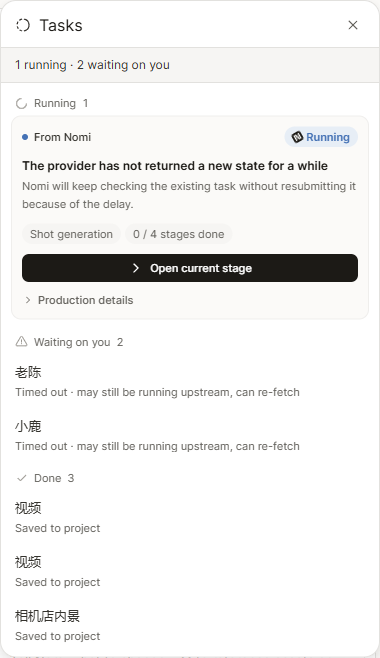
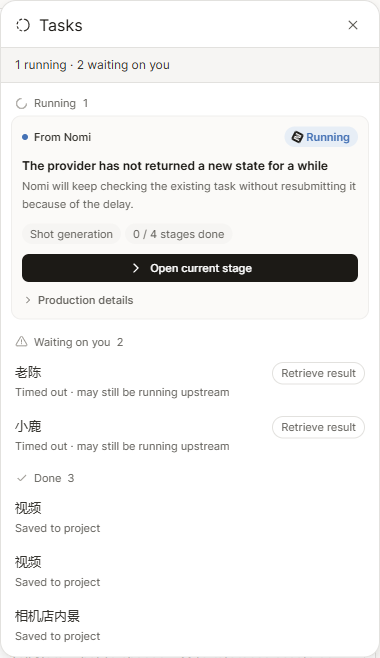
fix(tasks): 「等你处理」的等待超时行直接摆出「重新拉取」
评审指出：分组叫「等你处理」，行上却看不到在等的那个动作——等待超时的行 action 为空，
只能点进画布找节点上的按钮。

- 行动作新增 recover_generation：与节点按钮同一条 recoverNodeResult（查询、不铸付费令牌），
  项目身份在点击时签发；按钮文案复用 generationCommon.recoverable.recover
- 行副标题去掉与按钮重复的「可重新拉取」（en 版不再被截断）
- 走查断言按钮在静止面板里可见；zh/en 改后截图重拍

Changed region(s): [[0.6079, 0.6383, 0.9553, 0.6991], [0.6079, 0.5471, 0.9553, 0.6079], [0.7526, 0.1824, 0.8105, 0.2128]]

diff --git a/src/workbench/taskCenter/TaskCenterPanel.tsx b/src/workbench/taskCenter/TaskCenterPanel.tsx
@@ -15,6 +15,9 @@ import { useGenerationQueueStore } from '../generationCanvas/runner/generationQu
 import { requestTaskCancel } from '../generationCanvas/runner/localTaskControl'
 // 重试复用既有链路（单发 confirmAndRunNode / 批量 confirmAndRunPlan），不另起一套付费路径。
 import { confirmAndRunNode } from '../generationCanvas/runner/generationRunController'
+// 重新拉取与节点上那颗按钮同一条路（查询，不花钱），项目身份在点击这一刻签发。
+import { recoverNodeResult } from '../generationCanvas/runner/recoverTaskActions'
+import { withProjectAction } from '../project/projectCanvasReadSurface'
 import { confirmAndRunPlan } from '../generationCanvas/components/batchPlanPreview'
 import { buildDependencyWaves } from '../generationCanvas/runner/dependencyWaves'
 import { buildTaskCenterView, formatElapsed, orderTaskCenterRows, summarizeTaskCenterRows, type TaskCenterRow } from './taskCenterEntries'
@@ -178,6 +181,7 @@ export function TaskCenterPanel({ opened, onClose, productionRuns, exportJobs, o
       if (action.kind === 'cancel_generation_queue') cancelQueued(row as TaskCenterRow)
       else if (action.kind === 'interrupt_generation') interruptRunning(row as TaskCenterRow)
       else if (action.kind === 'retry_generation') await confirmAndRunNode(action.nodeId)
+      else if (action.kind === 'recover_generation') await withProjectAction((project) => recoverNodeResult(action.nodeId, project))
       else if (row.kind === 'export_job') {
         if (!(await runExportJobTaskAction(row.action))) throw new Error('Export destination unavailable')
         if (row.action.kind === 'return_to_export') onClose()
@@ -411,6 +415,7 @@ export function TaskRow({
       {row.action && onAction ? (
         <button
           type="button"
+          data-task-action={row.action.kind}
           onClick={(event) => {
             event.stopPropagation()
             onAction()
@@ -423,6 +428,8 @@ export function TaskRow({
               ? t('taskCenter.exportJob.returnToExport')
               : row.action.kind === 'retry_generation'
             ? t('taskCenter.row.retry')
+            : row.action.kind === 'recover_generation'
+              ? t('generationCommon.recoverable.recover')
             : row.cancel === 'free'
               ? t('taskCenter.row.cancel')
               : t('taskCenter.row.interrupt')}

diff --git a/src/workbench/taskCenter/taskCenterEntries.test.ts b/src/workbench/taskCenter/taskCenterEntries.test.ts
@@ -71,7 +71,7 @@ describe('buildTaskCenterView', () => {
   })
 
   // 2026-09-25 用户截图：「小鹿 等待超时 · 上游可能仍在跑，可重新拉取」被放在「已完成 5」下面。
-  it('等待超时（可重新拉取）不算已完成：进「等你处理」组，且不挂付费重试', () => {
+  it('等待超时（可重新拉取）不算已完成：进「等你处理」组，行上摆出「重新拉取」（查询），不挂付费重试', () => {
     const view = buildTaskCenterView({
       entries: [entry({ nodeId: 'deer', state: 'error', startedAt: 1000, endedAt: 1500 })],
       batches,
@@ -79,7 +79,7 @@ describe('buildTaskCenterView', () => {
       fallbackTitle: '未命名',
       now: 2000,
     })
-    expect(view.rows[0]).toMatchObject({ group: 'attention', recoverable: true, action: null })
+    expect(view.rows[0]).toMatchObject({ group: 'attention', recoverable: true, action: { kind: 'recover_generation', nodeId: 'deer' } })
     expect(view.summary).toMatchObject({ attention: 1, failed: 0 })
   })
 

diff --git a/src/i18n/resources.ts b/src/i18n/resources.ts
@@ -128,7 +128,7 @@ export const zhCN = {
     row: {
       elapsed: '已跑 {{time}}',
       cancelled: '已取消（未提交，无费用）',
-      recoverable: '等待超时 · 上游可能仍在跑，可重新拉取',
+      recoverable: '等待超时 · 上游可能仍在跑',
       failed: '生成失败',
       submittedNoStop: '此任务暂不支持中止',
       cancel: '取消',
@@ -551,7 +551,7 @@ export const en = {
     row: {
       elapsed: 'running {{time}}',
       cancelled: 'Cancelled (never submitted, no charge)',
-      recoverable: 'Timed out · may still be running upstream, can re-fetch',
+      recoverable: 'Timed out · may still be running upstream',
       failed: 'Generation failed',
       submittedNoStop: 'This task cannot be stopped',
       cancel: 'Cancel',

diff --git a/src/workbench/taskCenter/taskCenterEntries.ts b/src/workbench/taskCenter/taskCenterEntries.ts
@@ -136,7 +136,10 @@ export function buildTaskCenterView(input: {
           ? { kind: 'interrupt_generation' as const, nodeId: entry.nodeId }
           : group === 'done' && outcome === 'error'
             ? { kind: 'retry_generation' as const, nodeId: entry.nodeId }
-            : null,
+            // 「等你处理」组必须把它在等的那个动作摆出来：不然用户只能点进画布找节点上的按钮。
+            : recoverable
+              ? { kind: 'recover_generation' as const, nodeId: entry.nodeId }
+              : null,
       ...(entry.error ? { error: entry.error } : {}),
     }
   })

diff --git a/src/workbench/taskCenter/taskCenterProjection.ts b/src/workbench/taskCenter/taskCenterProjection.ts
@@ -38,6 +38,8 @@ export type GenerationTaskCenterProjection = TaskCenterProjectionBase & {
     | { kind: 'cancel_generation_queue'; batchId: string; nodeId: string }
     | { kind: 'interrupt_generation'; nodeId: string }
     | { kind: 'retry_generation'; nodeId: string }
+    /** 等待超时（上游可能已出片）：查询、不是重新生成——不铸付费令牌、不弹确认。 */
+    | { kind: 'recover_generation'; nodeId: string }
     | null
 }
 
